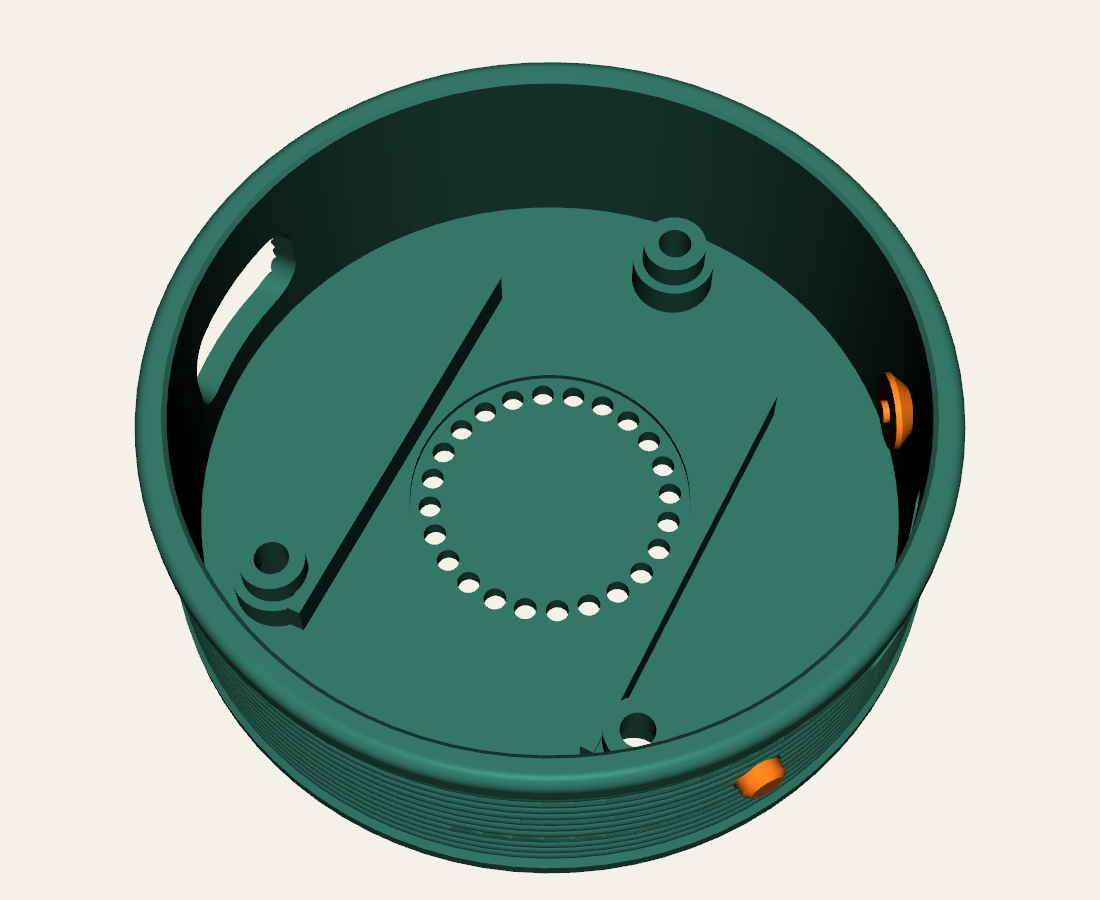
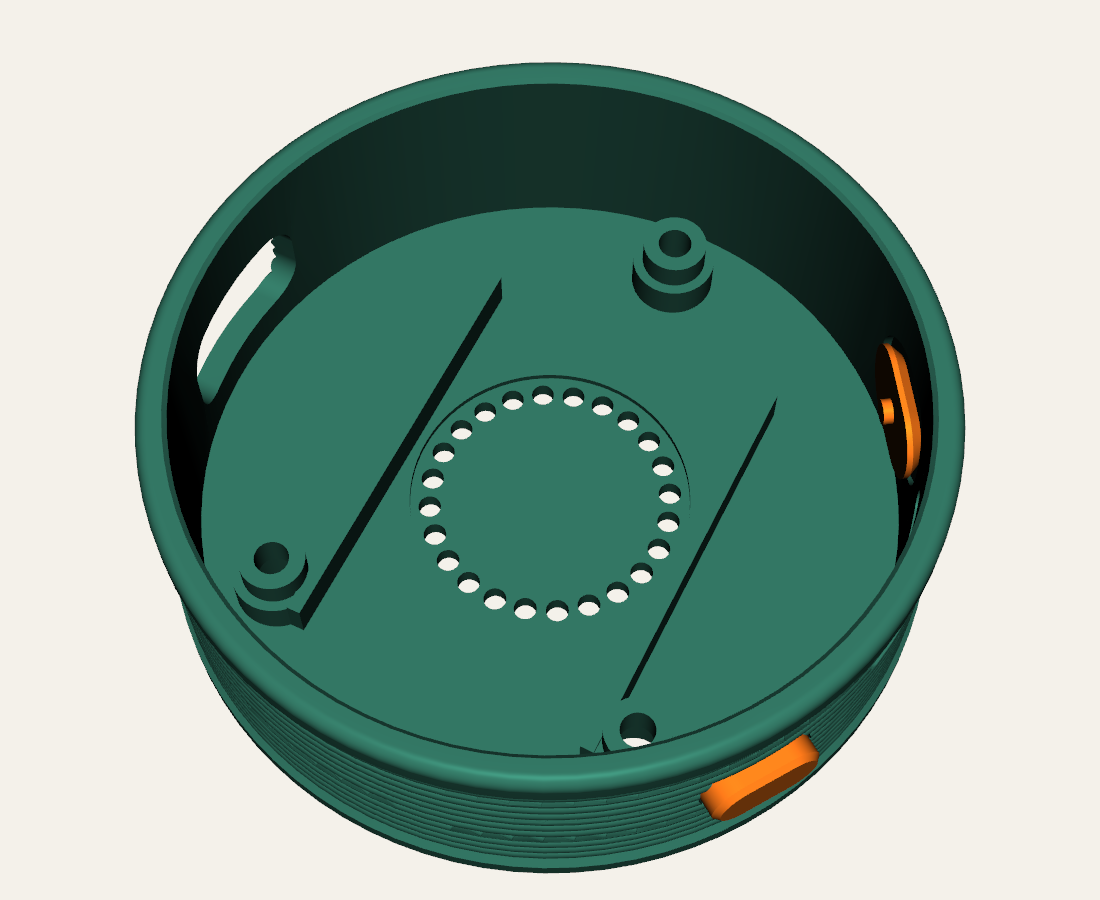
case: large keyed button caps (8 x 4.6 mm rounded slots, 1 mm proud) on flat seats instead of 3 mm round plungers; README battery section (MX1.25 polarity, protected cell >= 300 mAh to match the AXP2101's 300 mA default charge, 20 x 30 footprint)

Changed region(s): [[0.6182, 0.8089, 0.7418, 0.9333], [0.8036, 0.3733, 0.8345, 0.5289]]

diff --git a/case/parts.py b/case/parts.py
@@ -1,9 +1,9 @@
 """Case geometry, built from params.py (what you tune) and board.py (what was measured).
 
 The case is one cup shaped like a fly reel: the glass is the spool face, the rim is line wound
-between two flanges, and the back plate carries a drag-knob ring, a whale and a line of
-text. The board drops in glass-up and three M2 screws through the back pull its own SMT
-standoffs down onto posts, so nothing clips or glues. Two printed plungers carry PWR and BOOT
+between two flanges, and the back plate carries a drag-knob ring, a whale and raised text
+around the screw heads. The board drops in glass-up and three M2 screws through the back pull its own SMT
+standoffs down onto posts, so nothing clips or glues. Two printed button caps carry PWR and BOOT
 through the rim. The battery variant is the same cup with the floor lowered by one cell.
 """
 
@@ -26,6 +26,7 @@ from build123d import (
     RectangleRounded,
     Rot,
     Sketch,
+    SlotOverall,
     Spline,
     Text,
     ThreePointArc,
@@ -194,9 +195,13 @@ def speaker_grille(battery: bool) -> Part:
 def port_cutouts() -> Part:
     w, h = p.USB_OPENING
     cuts = through_rim(board.USB_ANGLE, board.USB_Z, RectangleRounded(w, h, p.USB_OPENING_ROUND))
-    hole = Circle(p.BUTTON_D / 2 + p.BUTTON_HOLE_GAP)
+    w, h = p.BUTTON_SIZE
+    g, f = p.BUTTON_HOLE_GAP, p.BUTTON_FLANGE
+    hole = SlotOverall(w + 2 * g, h + 2 * g)
+    seat = SlotOverall(w + 2 * f + 1, h + 2 * f + 1)
     for angle in (board.PWR_ANGLE, board.BOOT_ANGLE):
         cuts += through_rim(angle, board.KEY_Z, hole)
+        cuts += extrude(radial_plane(angle, BORE_R - 2, board.KEY_Z) * seat, amount=2)
     if p.SD_SLOT:
         sw, sh = p.SD_SLOT_SIZE
         cuts += through_rim(
@@ -347,53 +352,52 @@ def case(battery: bool = False) -> Part:
     return body - cuts
 
 
-# --- Button plungers -------------------------------------------------------------------------
-# Along its own axis a plunger runs from the switch actuator (inside) to past the rim. Its flange
-# is a 45 degree cone that stops against the edge of the hole, which also centres it.
+# --- Buttons ---------------------------------------------------------------------------------
+# Along its axis a button runs from the switch actuator (inside) to past the rim: a nub, a flange,
+# a 45 degree cone and the cap. The cone stops against the hole's edge on a flat seat cut into
+# the bore, which also centres the cap. Its rounded-slot shape keys it so it can't turn.
 
 
 def button_stations() -> dict[str, float]:
-    """Distances from the case centre along the button axis, with the plunger at rest."""
-    hole_r = p.BUTTON_D / 2 + p.BUTTON_HOLE_GAP
-    stop = math.sqrt(BORE_R**2 - hole_r**2)
-    flange = stop - (p.BUTTON_FLANGE_D / 2 - hole_r)
+    """Distances from the case centre along the button axis, with the button at rest."""
+    cone_end = BORE_R + p.BUTTON_HOLE_GAP
+    cone_start = cone_end - p.BUTTON_FLANGE
     return {
         "nub": board.KEY_TIP_R + p.BUTTON_ACTUATOR_GAP,
-        "flange_in": flange - p.BUTTON_FLANGE_T,
-        "flange": flange,
-        "shaft": stop + (hole_r - p.BUTTON_D / 2),
+        "flange_in": cone_start - p.BUTTON_FLANGE_T,
+        "cone_start": cone_start,
+        "cone_end": cone_end,
         "tip": OUTER_R + p.BUTTON_PROUD,
     }
 
 
 def button_axial() -> Part:
-    """The plunger with its axis on +Z, where Z is the distance from the case centre."""
+    """One button with its axis on +Z (Z is the distance from the case centre), long side on X."""
     s = button_stations()
-    rb, rf, rn, c = p.BUTTON_D / 2, p.BUTTON_FLANGE_D / 2, p.BUTTON_NUB_D / 2, p.BUTTON_TIP_CHAMFER
-    outline = Polyline(
-        (0, 0, s["nub"]),
-        (rn, 0, s["nub"]),
-        (rn, 0, s["flange_in"]),
-        (rf, 0, s["flange_in"]),
-        (rf, 0, s["flange"]),
-        (rb, 0, s["shaft"]),
-        (rb, 0, s["tip"] - c),
-        (rb - c, 0, s["tip"]),
-        (0, 0, s["tip"]),
-        close=True,
+    w, h = p.BUTTON_SIZE
+    f, c = p.BUTTON_FLANGE, p.BUTTON_TIP_CHAMFER
+    flange = SlotOverall(w + 2 * f, h + 2 * f)
+    nub = Cylinder(p.BUTTON_NUB_D / 2, s["flange_in"] - s["nub"], align=BOTTOM)
+    cap_length = s["tip"] - s["cone_end"]
+    cap = extrude(SlotOverall(w, h), amount=cap_length - c)
+    cap += Pos(0, 0, cap_length - c) * extrude(SlotOverall(w, h), amount=c, taper=45)
+    return (
+        Pos(0, 0, s["nub"]) * nub
+        + Pos(0, 0, s["flange_in"]) * extrude(flange, amount=p.BUTTON_FLANGE_T)
+        + Pos(0, 0, s["cone_start"]) * extrude(flange, amount=f, taper=45)
+        + Pos(0, 0, s["cone_end"]) * cap
     )
-    return revolve(make_face(outline), Axis.Z)
 
 
 def button(pressed: float = 0.0) -> Part:
-    """Both plungers in place on the case (pressed = how far in, in mm)."""
+    """Both buttons in place on the case (pressed = how far in, in mm)."""
     axial = Pos(0, 0, -pressed) * button_axial()
     both = Part()
     for angle in (board.PWR_ANGLE, board.BOOT_ANGLE):
-        both += Pos(0, 0, board.KEY_Z) * Rot(0, 0, angle) * Rot(0, 90, 0) * axial
+        both += radial_plane(angle, 0, board.KEY_Z).location * axial
     return both
 
 
 def button_print() -> Part:
-    """One plunger standing on the face you press, as it prints."""
+    """One button lying on the face you press, as it prints."""
     return Pos(0, 0, button_stations()["tip"]) * Rot(180, 0, 0) * button_axial()

diff --git a/case/params.py b/case/params.py
@@ -10,7 +10,7 @@ is at 9 o'clock, PWR at 2 o'clock and BOOT at 4 o'clock (see board.py).
 GLASS_GAP = 0.30  # radial gap between the glass edge and the case bore
 RIM_PROUD = 0.50  # rim height above the glass, so a face-down drop lands on plastic
 FLOOR_GAP = 0.60  # gap between the deepest board part (8-pin header) and the floor
-BUTTON_HOLE_GAP = 0.15  # radial gap between a button shaft and its hole
+BUTTON_HOLE_GAP = 0.15  # gap all round between a button cap and its hole
 BUTTON_ACTUATOR_GAP = 0.10  # gap between a button and the switch at rest
 
 # --- Body ---------------------------------------------------------------------------------
@@ -34,12 +34,17 @@ SCREW_SHELF = 2.7  # plastic the screw head clamps; 2.7 + 3.3 thread = M2x6
 POST_D = 4.6  # posts the standoffs sit on (narrow: the BAT/SPK sockets are close)
 POST_WIDE_D = 6.0  # lower part of the posts in the battery case, around the counterbore
 
-# --- Buttons (two printed plungers between the case and the side keys) --------------------
-BUTTON_D = 3.2  # the part you press
-BUTTON_FLANGE_D = 5.4  # keeps the plunger from falling out; a 45 deg cone, prints unsupported
+# --- Buttons (two printed caps through the rim, pressing the side keys) --------------------
+BUTTON_SIZE = (
+    8.0,
+    4.6,
+)  # the cap you press: along the rim x tall (a rounded slot, so it can't turn)
+BUTTON_FLANGE = (
+    0.9  # how far the flange inside overhangs the cap; a 45 deg cone, prints unsupported
+)
 BUTTON_FLANGE_T = 0.4
-BUTTON_NUB_D = 1.6  # presses the switch actuator (2.0 x 1.0)
-BUTTON_PROUD = 0.8  # how far the button stands out past the flanges
+BUTTON_NUB_D = 1.8  # presses the switch actuator (2.0 x 1.0)
+BUTTON_PROUD = 1.0  # how far the cap stands out past the flanges
 BUTTON_TIP_CHAMFER = 0.4
 
 # --- Ports --------------------------------------------------------------------------------

diff --git a/case/build.py b/case/build.py
@@ -1,7 +1,7 @@
 """Build every printable part into out/: `uv run build.py`.
 
 out/ gets, for each case variant, a STEP (edit it in any CAD program) and an STL, plus a
-3MF print plate with the case on its back and three button plungers beside it, and a
+3MF print plate with the case on its back and three button caps beside it, and a
 _two_colour.3mf where the raised art is its own part, ready for a second filament on an AMS.
 """
 
@@ -30,7 +30,7 @@ def mesh_object(mesher: Mesher, shape, name: str):
 
 
 def plate(name: str, case, two_colour: bool = False):
-    """The case on its back, at the origin, with three plungers (one spare) beside it.
+    """The case on its back, at the origin, with three button caps (one spare) beside it.
 
     With `two_colour` the case is one object in two parts, the raised art and the rest, so the
     slicer can give the art its own filament.
@@ -85,7 +85,8 @@ def main():
         summary(name, battery)
     save(parts.button_print(), "button")
     save(fit_ring(), "fit_test_ring")
-    print(f"buttons: print 2 (+1 spare) standing on the round end, {p.BUTTON_D} mm across")
+    w, h = p.BUTTON_SIZE
+    print(f"buttons: {w:g} x {h:g} mm caps, print 2 (+1 spare) lying on the face you press")
     print("fit_test_ring: the top 10 mm of the case; print it as it lies, cut edge down")
     print("screws: 3x M2x6 (M2x5 also fits; never longer than 6), heads in the back counterbores")
     print(f"wrote {OUT.relative_to(Path.cwd()) if OUT.is_relative_to(Path.cwd()) else OUT}/")

diff --git a/case/README.md b/case/README.md
@@ -19,7 +19,7 @@ Waveshare's own STEP model of the board (in `../docs/`).
             glass (flush, 0.5 mm below the rim)
    rim  ____________________________________  rim
   |  |  board, screwed down through its     |  |   USB-C opening (9 o'clock)
-  |  |  three M2 standoffs onto three posts  |  |   PWR / BOOT plungers (2 and 4 o'clock)
+  |  |  three M2 standoffs onto three posts  |  |   PWR / BOOT button caps (2 and 4 o'clock)
   |  |       [ speaker, face down ]          |  |   microSD slot (3 o'clock)
   |__|_______o o o grille o o o_____________|__|
        back: raised whale and text, 3 screw heads
@@ -27,8 +27,9 @@ Waveshare's own STEP model of the board (in `../docs/`).
 
 - The case is one cup. The board drops in glass-up and three M2 screws through the back go into
   the board's own threaded standoffs. There are no clips and no glue, and three screws open it.
-- PWR and BOOT are two small printed plungers. A cone on each one stops it falling out, and the
-  board's switches stop it falling in.
+- PWR and BOOT are pressed through two printed button caps, 8 x 4.6 mm rounded slots that stand
+  1 mm out of the rim. Behind each cap a flange stops it falling out, and a nub presses the
+  board's side switch. The slot shape keys the cap so it can't turn.
 - The speaker lies face down on the floor behind the grille. In the battery case a LiPo cell lies on
   top of it.
 
@@ -36,7 +37,7 @@ Waveshare's own STEP model of the board (in `../docs/`).
 
 | File | What it is |
 |---|---|
-| `reel_case.3mf` | Print plate: the USB-powered case plus three plungers (one spare) |
+| `reel_case.3mf` | Print plate: the USB-powered case plus three button caps (one spare) |
 | `reel_case_battery.3mf` | The same for the battery case (thicker: the cell lies under the board) |
 | `reel_case*.stl`, `button.stl` | The same parts as plain meshes |
 | `reel_case*_two_colour.3mf` | The same plates with the raised art as its own part, for a second filament on an AMS |
@@ -48,10 +49,10 @@ Without the speaker (`SPEAKER = None`) the case is 16.3 mm thick.
 
 ## Printing on the P2S
 
-- **Material:** PLA is fine. PETG gives tougher plungers.
+- **Material:** PLA is fine. PETG gives tougher button caps.
 - **Profile:** 0.16 mm layers, 3 walls, 15 % infill, no supports, no brim. Open the 3MF and
-  everything is already lying the way it should print: the case on its back and the plungers on
-  their round ends.
+  everything is already lying the way it should print: the case on its back and the button caps
+  on the face you press.
 - **Raised art, face down:** the background around the art is recessed 0.7 mm. The art and the
   outer rim are the first layers on the plate and take its texture. The background is printed as
   short bridges, so it comes out slightly striated, which makes the lettering stand out.
@@ -66,26 +67,47 @@ Without the speaker (`SPEAKER = None`) the case is 16.3 mm thick.
 - 3x **M2x6** screws, pan or socket head. M2x5 also works. Never use anything longer than 6 mm,
   because an 8 mm screw reaches the display.
 - The 8 ohm speaker from the box, plus a little double-sided foam tape.
-- Battery case only: a 3.7 V LiPo pouch with a 20 x 30 mm footprint (402030 / 602030 / 802030)
-  and an MX1.25 (Molex 51021-style) 2-pin plug. **Check the polarity against the board's BAT
-  markings before plugging it in**, because sellers wire these plugs both ways.
+- Battery case only: a single-cell 3.7 V LiPo pouch with a protection circuit (see below).
 
 ## Assembly
 
 1. Optional: print `fit_test_ring.stl` and slide it over the board to check the glass fit and
    the hole positions.
-2. From inside the case, push each plunger's round end out through its hole (2 and 4 o'clock,
-   next to the microSD slot). The cone stops it.
+2. From inside the case, push each button cap out through its slot (2 and 4 o'clock, either side
+   of the microSD slot) until its flange stops it. A strip of masking tape over the caps on the
+   outside keeps them from falling in while you do the next steps.
 3. Lay the speaker face down between the two rails, with its wire end towards the lone post at
    12 o'clock (a quarter turn clockwise from the USB-C opening, looking in). Plug it into the
    board's SPK socket, and tape it down if it rattles.
 4. Line USB-C up with the big opening and lower the board straight in, glass up. Nothing should
-   catch. Keep the plungers in their holes with a fingertip until the board covers them.
+   catch. Once the screws are in, peel off the tape: each cap should click its switch.
 5. Turn it over and drive the three screws into the counterbores until they are snug, not tight.
 
-**Adding a battery later:** print `reel_case_battery`, stick the cell on top of the speaker with
-its wires towards 12 o'clock, plug it into BAT, and move the board and plungers across.
-PWR turns it on and off, and USB-C charges it.
+## Battery
+
+The BAT socket takes one 3.7 V lithium-polymer cell. The board's AXP2101 charges it from USB-C,
+and PWR turns the device on and off.
+
+- **Plug:** MX1.25 2-pin, which is Molex PicoBlade 51021 style at 1.25 mm pitch. A JST-GH plug
+  looks similar but won't fit. **Check the polarity against the + and - marks by the BAT socket
+  before plugging in**, because sellers wire these leads both ways. Reversed, it can damage the
+  board.
+- **Protection circuit:** buy a cell with a built-in protection board (PCM). Most hobby LiPos with
+  wires have one.
+- **Capacity: 300 mAh or more.** The AXP2101 charges at 300 mA unless firmware changes it
+  (register 0x62, default 300 mA to 4.2 V). The firmware here leaves that alone, and a cell
+  should charge at no more than its own capacity per hour.
+- **Size for the battery case:** a 20 x 30 mm footprint, 6 mm thick or less. A 602030 is about
+  300 to 400 mAh. A thicker 802030 (about 500 mAh) also works: set `BATTERY = (20.0, 30.0, 8.0)`
+  in `params.py` and the case grows 2 mm.
+- **Runtime:** expect roughly 2 to 3 hours from 300 to 400 mAh. That figure is an estimate from
+  typical ESP32-S3 and AMOLED draw, not a measurement.
+
+To fit it: print `reel_case_battery`, stick the cell on top of the speaker with double-sided foam
+tape (wires towards 12 o'clock), plug it into BAT, and move the board and button caps across.
+
+If you only want cordless play now and then, any USB-C power bank on the USB-C port also works,
+with no changes.
 
 ## Changing it
 
@@ -99,7 +121,7 @@ uv run render.py   # PNG previews in previews/
 |---|---|
 | `params.py` | Everything you might tune, with comments: text, font, fit gaps, wall and flange sizes, line pitch, button size, speaker and battery sizes. If a word no longer fits between its screws, `build.py` stops and says so |
 | `board.py` | Board facts measured from the STEP model (positions, depths, keys, ports) |
-| `parts.py` | The geometry, one small function per feature (body, posts, rails, grille, cutouts, art, plungers) |
+| `parts.py` | The geometry, one small function per feature (body, posts, rails, grille, cutouts, art, button caps) |
 | `check.py` | Fit tests: no overlaps, board lowers straight in, buttons hit their switches, the battery/speaker/plugs fit, safe screw lengths |
 
 Frame used everywhere: looking at the screen with the game upright, +X is right, +Y is up, +Z
@@ -122,4 +144,4 @@ CAD program, but those edits don't flow back into the Python.
   reads upright on that basis when the device is turned over left to right. The text is laid out
   around the screw heads. If the screen turns out rotated, `WHALE_ROTATION` turns the whale.
 - **Tolerances.** Tolerances are tuned for a Bambu printer: a 0.3 mm gap at the glass and 0.15 mm
-  around the plungers. If the glass is tight in the fit ring, raise `GLASS_GAP`.
+  around the button caps. If the glass is tight in the fit ring, raise `GLASS_GAP`.
